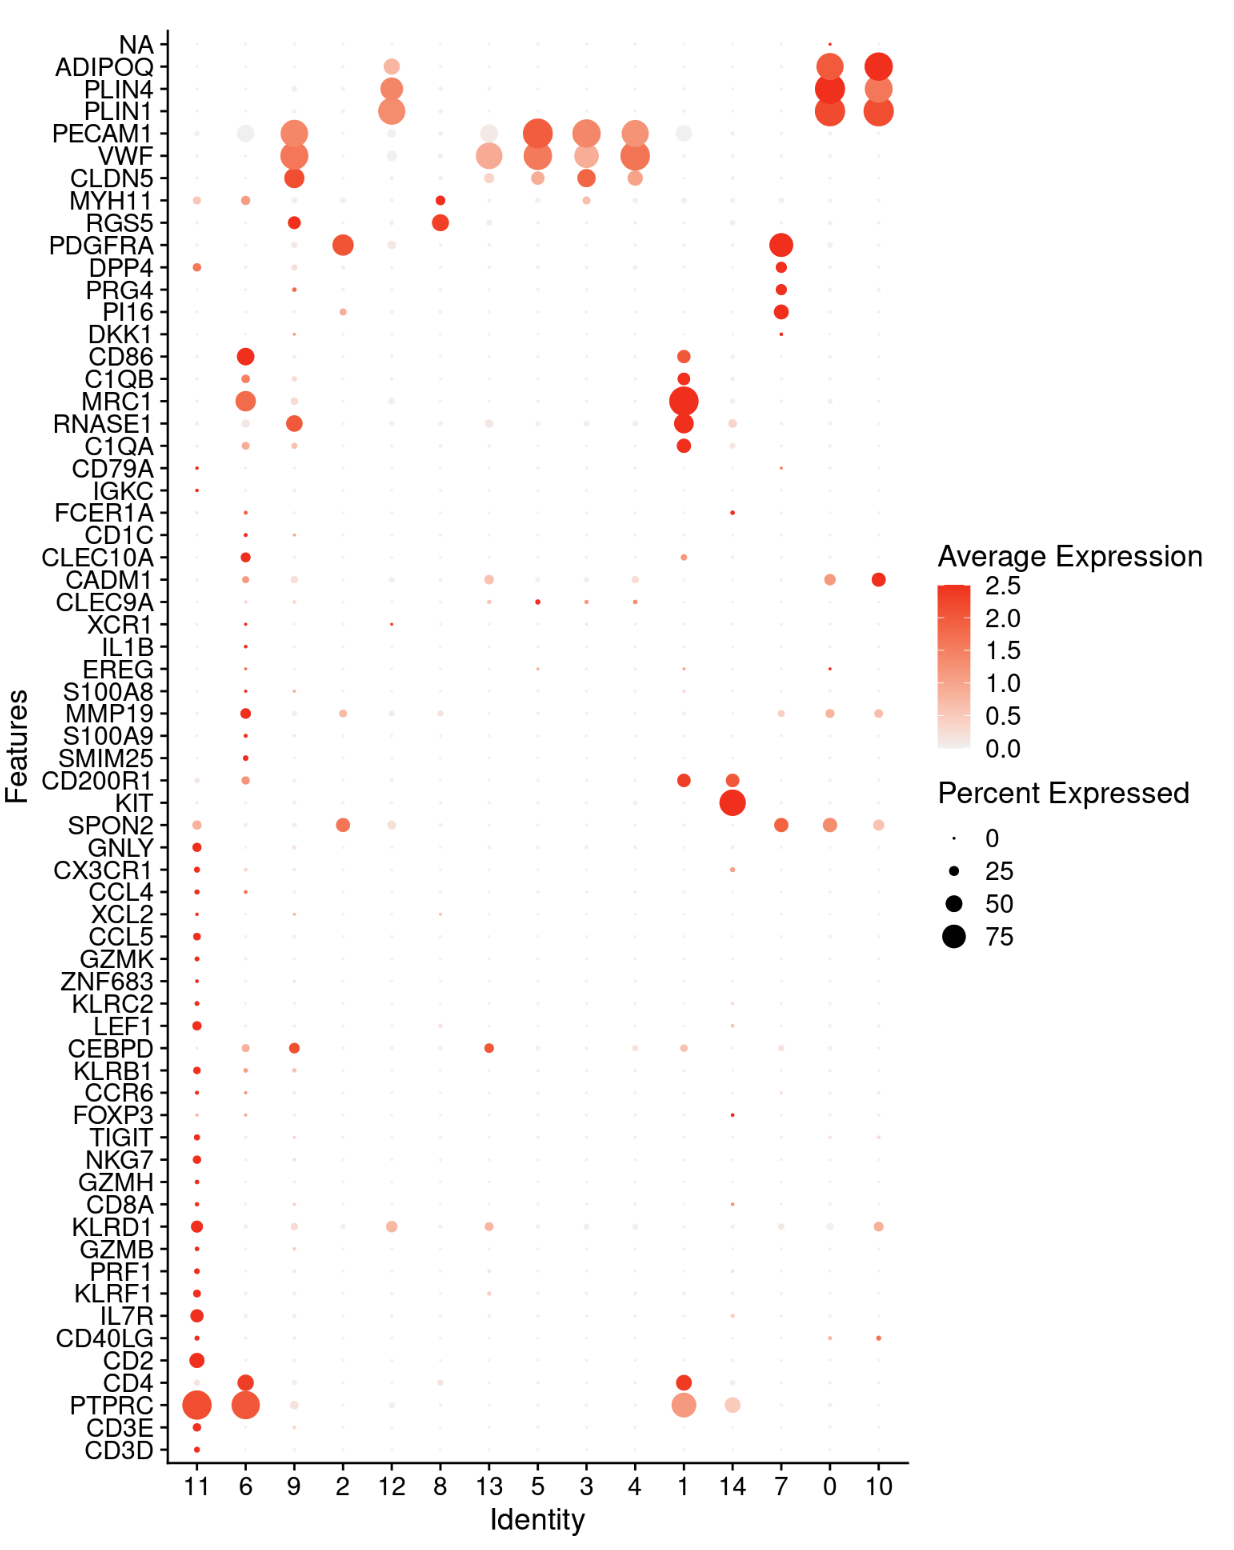
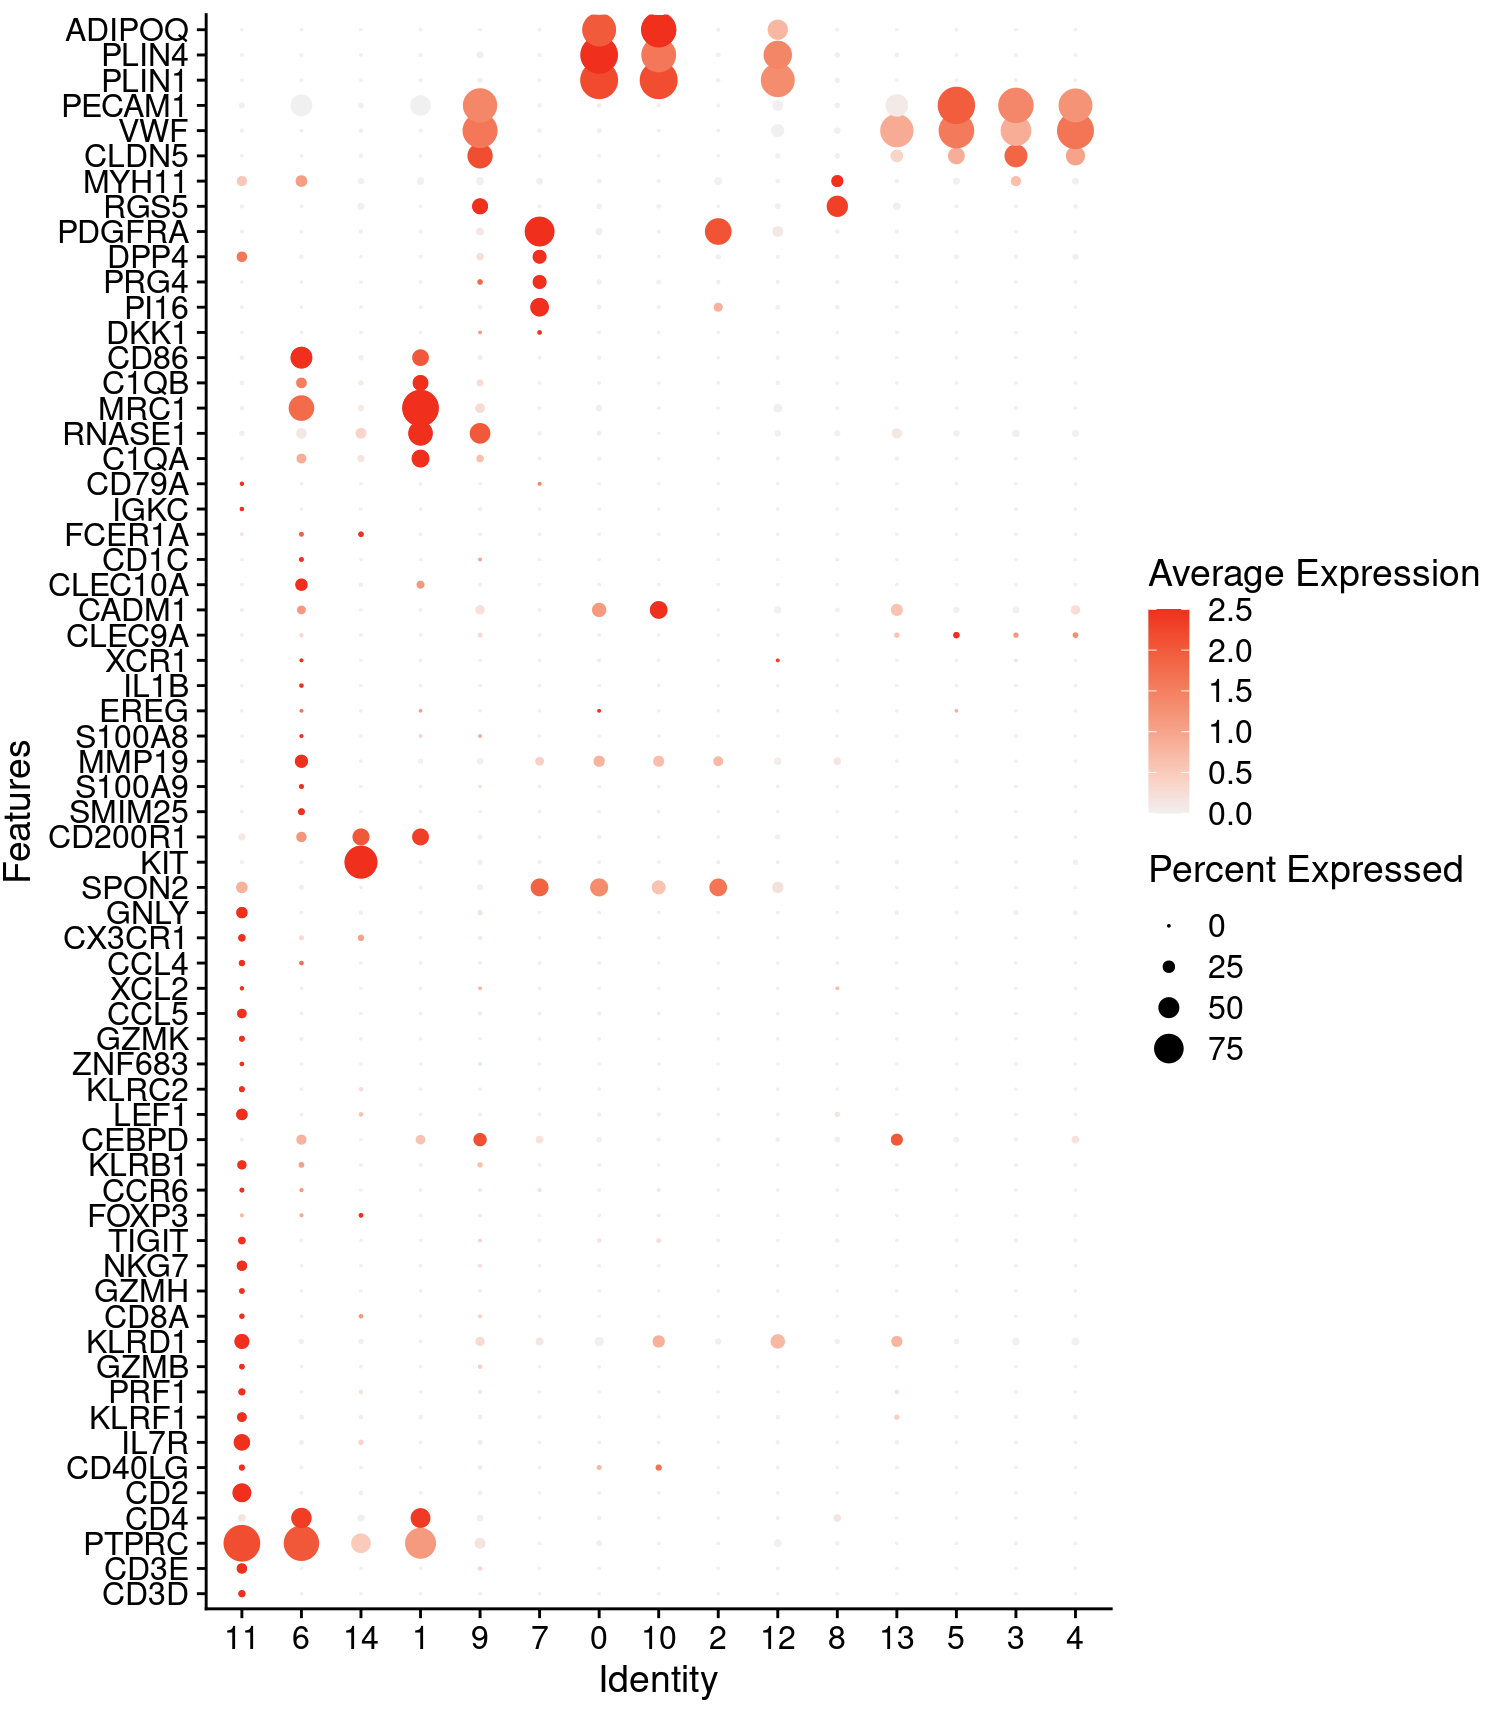
updated

diff --git a/docs/normalization-clustering-and-annotation.html b/docs/normalization-clustering-and-annotation.html
@@ -188,19 +188,19 @@ DimPlot(cohort_1, label = T, repel = T) </code></pre>
                      &quot;CD2&quot;, &quot;CD40LG&quot;, &quot;IL7R&quot;, #Naive CD4 T
                      &quot;KLRF1&quot;, &quot;PRF1&quot;, &quot;GZMB&quot;, &quot;KLRD1&quot;,#Cytotoxic CD8 T
                      &quot;CD8A&quot;, &quot;GZMH&quot;, &quot;NKG7&quot;, #Naive CD8 T
-                     &quot;CLTA4&quot;, &quot;TIGIT&quot;, &quot;FOXP3&quot;, #Treg
+                     &quot;TIGIT&quot;, &quot;FOXP3&quot;, #Treg
                      &quot;CCR6&quot;, &quot;KLRB1&quot;, &quot;CEBPD&quot;, #MAIT
                      &quot;LEF1&quot;, &quot;KLRC2&quot;, &quot;ZNF683&quot;, #CD8 gd T
                      &quot;GZMK&quot;, &quot;CCL5&quot;, &quot;XCL2&quot;, &quot;CCL4&quot;, #NK-like
-                     &quot;CX3CR1&quot;, &quot;FCG3RA&quot;, &quot;GNLY&quot;, &quot;SPON2&quot;, #mNK
-                     &quot;KIT&quot;, &quot;CD200R1&quot;, &quot;TPBC2&quot;,  #ILCs
-                     &quot;FPR2&quot;, &quot;SMIM25&quot;, #ncMo
+                     &quot;CX3CR1&quot;, &quot;GNLY&quot;, &quot;SPON2&quot;, #mNK
+                     &quot;KIT&quot;, &quot;CD200R1&quot;,  #ILCs
+                     &quot;SMIM25&quot;, #ncMo
                      &quot;S100A9&quot;, &quot;MMP19&quot;, #Monocyte
                      &quot;S100A8&quot;, &quot;EREG&quot;, &quot;IL1B&quot;, #myeloid-like
                      &quot;XCR1&quot;, &quot;CLEC9A&quot;, &quot;CADM1&quot;, #cDC1
                      &quot;CLEC10A&quot;, &quot;CD1C&quot;, &quot;FCER1A&quot;, #cDC2B
-                     &quot;IGKC&quot;, &quot;CD79A&quot;, &quot;IEBF1&quot;, #B cell
-                     &quot;C1QA&quot;, &quot;RNASE1&quot;, &quot;LYE1&quot;, # PVMs
+                     &quot;IGKC&quot;, &quot;CD79A&quot;, #B cell
+                     &quot;C1QA&quot;, &quot;RNASE1&quot;, # PVMs
                      &quot;MRC1&quot;, &quot;C1QB&quot;, &quot;CD86&quot;, #Macrophage
                      &quot;DKK1&quot;, &quot;PI16&quot;, &quot;PRG4&quot;, &quot;DPP4&quot;,&quot;PDGFRA&quot;, #APC
                      &quot;RGS5&quot;,&quot;MYH11&quot;, #SMC &amp; Pericyte
@@ -210,7 +210,7 @@ DimPlot(cohort_1, label = T, repel = T) </code></pre>
 DotPlot(cohort_1, features = genes_to_check,  
         cols = c(&quot;gray95&quot;, &quot;red&quot;), cluster.idents = T, col.min = 0, 
         assay=&#39;SCT&#39;) + coord_flip()</code></pre>
-<p><img src="image/dotplot.png" width="617" /></p>
+<p><img src="image/dotplot.png" width="744" /></p>
 <pre class="shell"><code>cohort_1@meta.data$major_celltype[cohort_1@meta.data$seurat_clusters %in% c(0,10,12)] &lt;- &#39;Adipocyte&#39;
 cohort_1@meta.data$major_celltype[cohort_1@meta.data$seurat_clusters %in% c(8,9)] &lt;- &#39;SMC&#39;
 cohort_1@meta.data$major_celltype[cohort_1@meta.data$seurat_clusters %in% 1] &lt;- &#39;Macrophage&#39;

diff --git a/docs/index.html b/docs/index.html
@@ -171,7 +171,8 @@
 <h1><span class="header-section-number">1</span> Introduction<a href="index.html#introduction" class="anchor-section" aria-label="Anchor link to header"></a></h1>
 <p>This is a benchmarked and optimized workflow for analyzing single-nuclei RNA sequencing (snRNA-seq), tailored to the analysis of metabolically active tissues. This workflow includes key steps from preprocessing to downstream analyses. This technical note aims to serve as a standard protocol for researchers seeking to apply snRNA-seq to metabolic tissues including adipose tissue, muscle, hypothalamus and liver to uncover novel regulatory mechanisms, identify new therapeutic targets, and ultimately contribute to the development of more effective treatments for metabolic disorders.</p>
 <p>This workflow encompasses a series of procedures, including the alignment and quantification of raw FASTQ files, followed by the recommended removal of ambient RNA after generating the raw matrix. Additionally, it involves the potential identification and removal of doublets using scDblFinder, normalization of gene expression values, multiple approaches for data integration, and comprehensive benchmarking steps to ensure robust results.</p>
-<p><img src="image/workflow.jpg" /><!-- --></p>
+<p><img src="image/workflow.jpg" /><!-- -->
+Citation: Dong et al, An optimized practice for upstream analysis of single nucleus transcriptomics in key metabolic tissues</p>
 
 </div>
             </section>

diff --git a/docs/quality-control-and-doublet-removal.html b/docs/quality-control-and-doublet-removal.html
@@ -224,8 +224,7 @@ plot1 + plot2</code></pre>
 <pre class="shell"><code>cohort_1 &lt;- subset(cohort_1, subset = nFeature_RNA &gt; 200 &amp;  nFeature_RNA &lt; 15000 &amp;
                      nCount_RNA &gt; 500 &amp; nCount_RNA &lt; 200000 &amp; 
                      percent.mt &lt; 5)
-cohort_1 &lt;- subset(cohort_1, subset = doublet_type == &#39;singlet&#39;)
-cohort_1</code></pre>
+cohort_1 &lt;- subset(cohort_1, subset = doublet_type == &#39;singlet&#39;)</code></pre>
 
 </div>
 </div>
